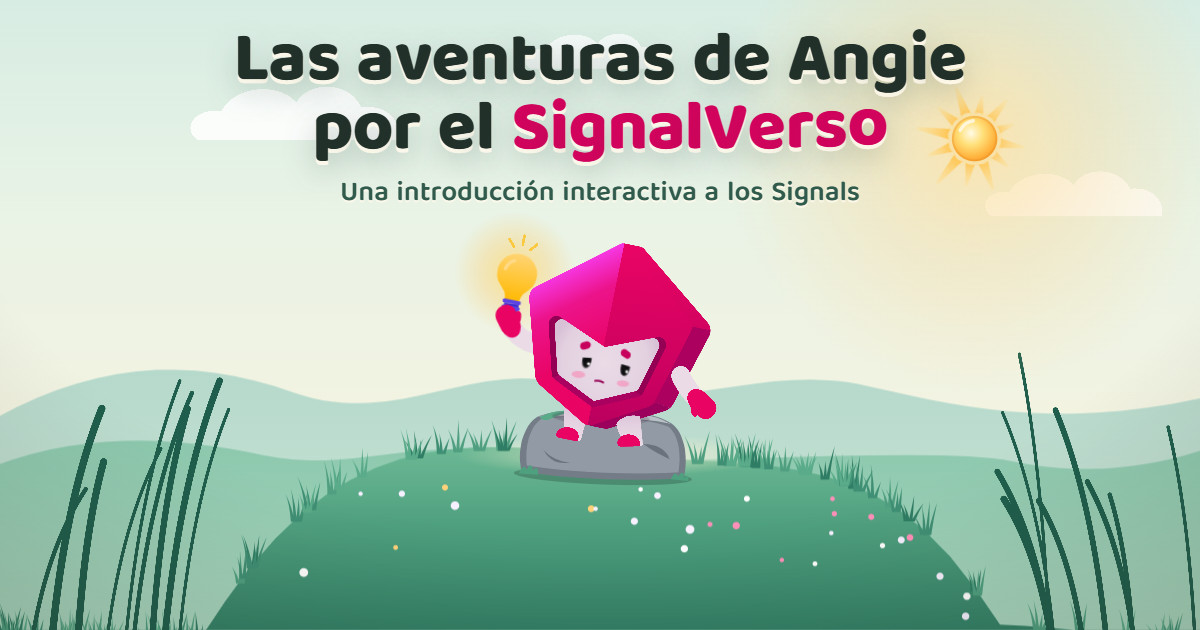
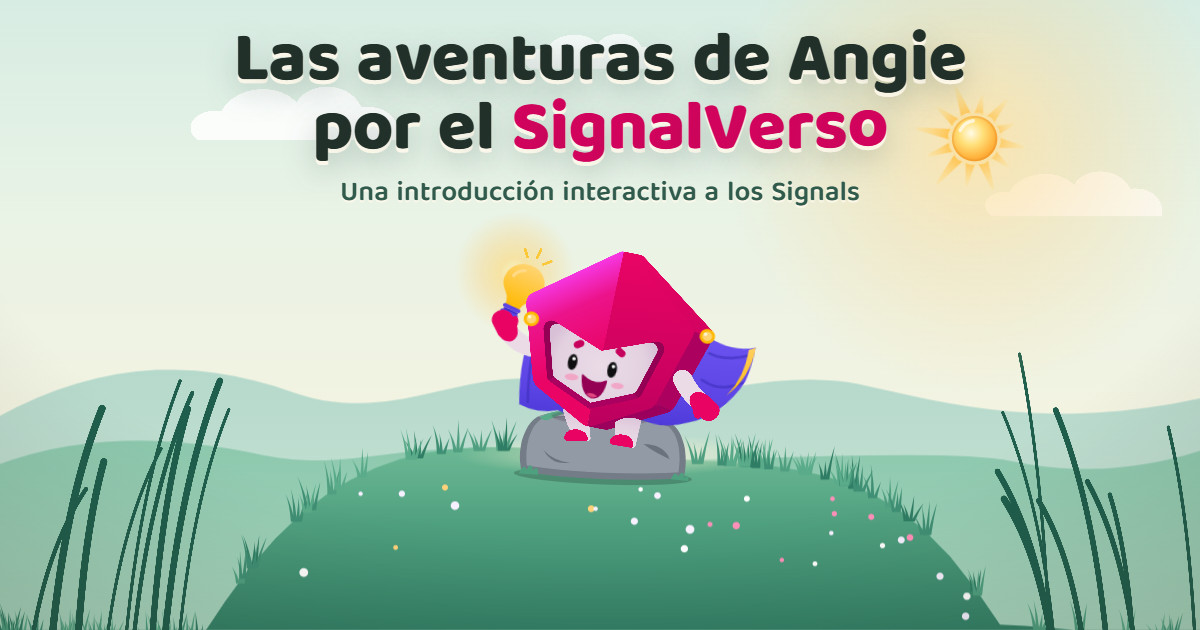
feat(config): en la tarjeta social Angie sonríe y tiene capa

diff --git a/src/index.html b/src/index.html
@@ -35,7 +35,7 @@
     <meta property="og:image:height" content="630" />
     <meta
       property="og:image:alt"
-      content="Las aventuras de Angie por el SignalVerso: Angie, una gema rosa con una lamparita encendida, sentada en una piedra en la cima de una colina verde, con el sol al costado."
+      content="Las aventuras de Angie por el SignalVerso: Angie, una gema rosa, feliz y con una capa violeta al viento, levanta su lamparita encendida sentada en una piedra en la cima de una colina verde, con el sol al costado."
     />
     <meta name="twitter:card" content="summary_large_image" />
     <meta
@@ -52,7 +52,7 @@
     />
     <meta
       name="twitter:image:alt"
-      content="Las aventuras de Angie por el SignalVerso: Angie, una gema rosa con una lamparita encendida, sentada en una piedra en la cima de una colina verde, con el sol al costado."
+      content="Las aventuras de Angie por el SignalVerso: Angie, una gema rosa, feliz y con una capa violeta al viento, levanta su lamparita encendida sentada en una piedra en la cima de una colina verde, con el sol al costado."
     />
     <!-- Sustrato tipográfico compartido: Archivo (display) + Baloo 2 (título de la colina) + JetBrains Mono (valores/código) + Fraunces (editorial) -->
     <link rel="preconnect" href="https://fonts.googleapis.com" />
